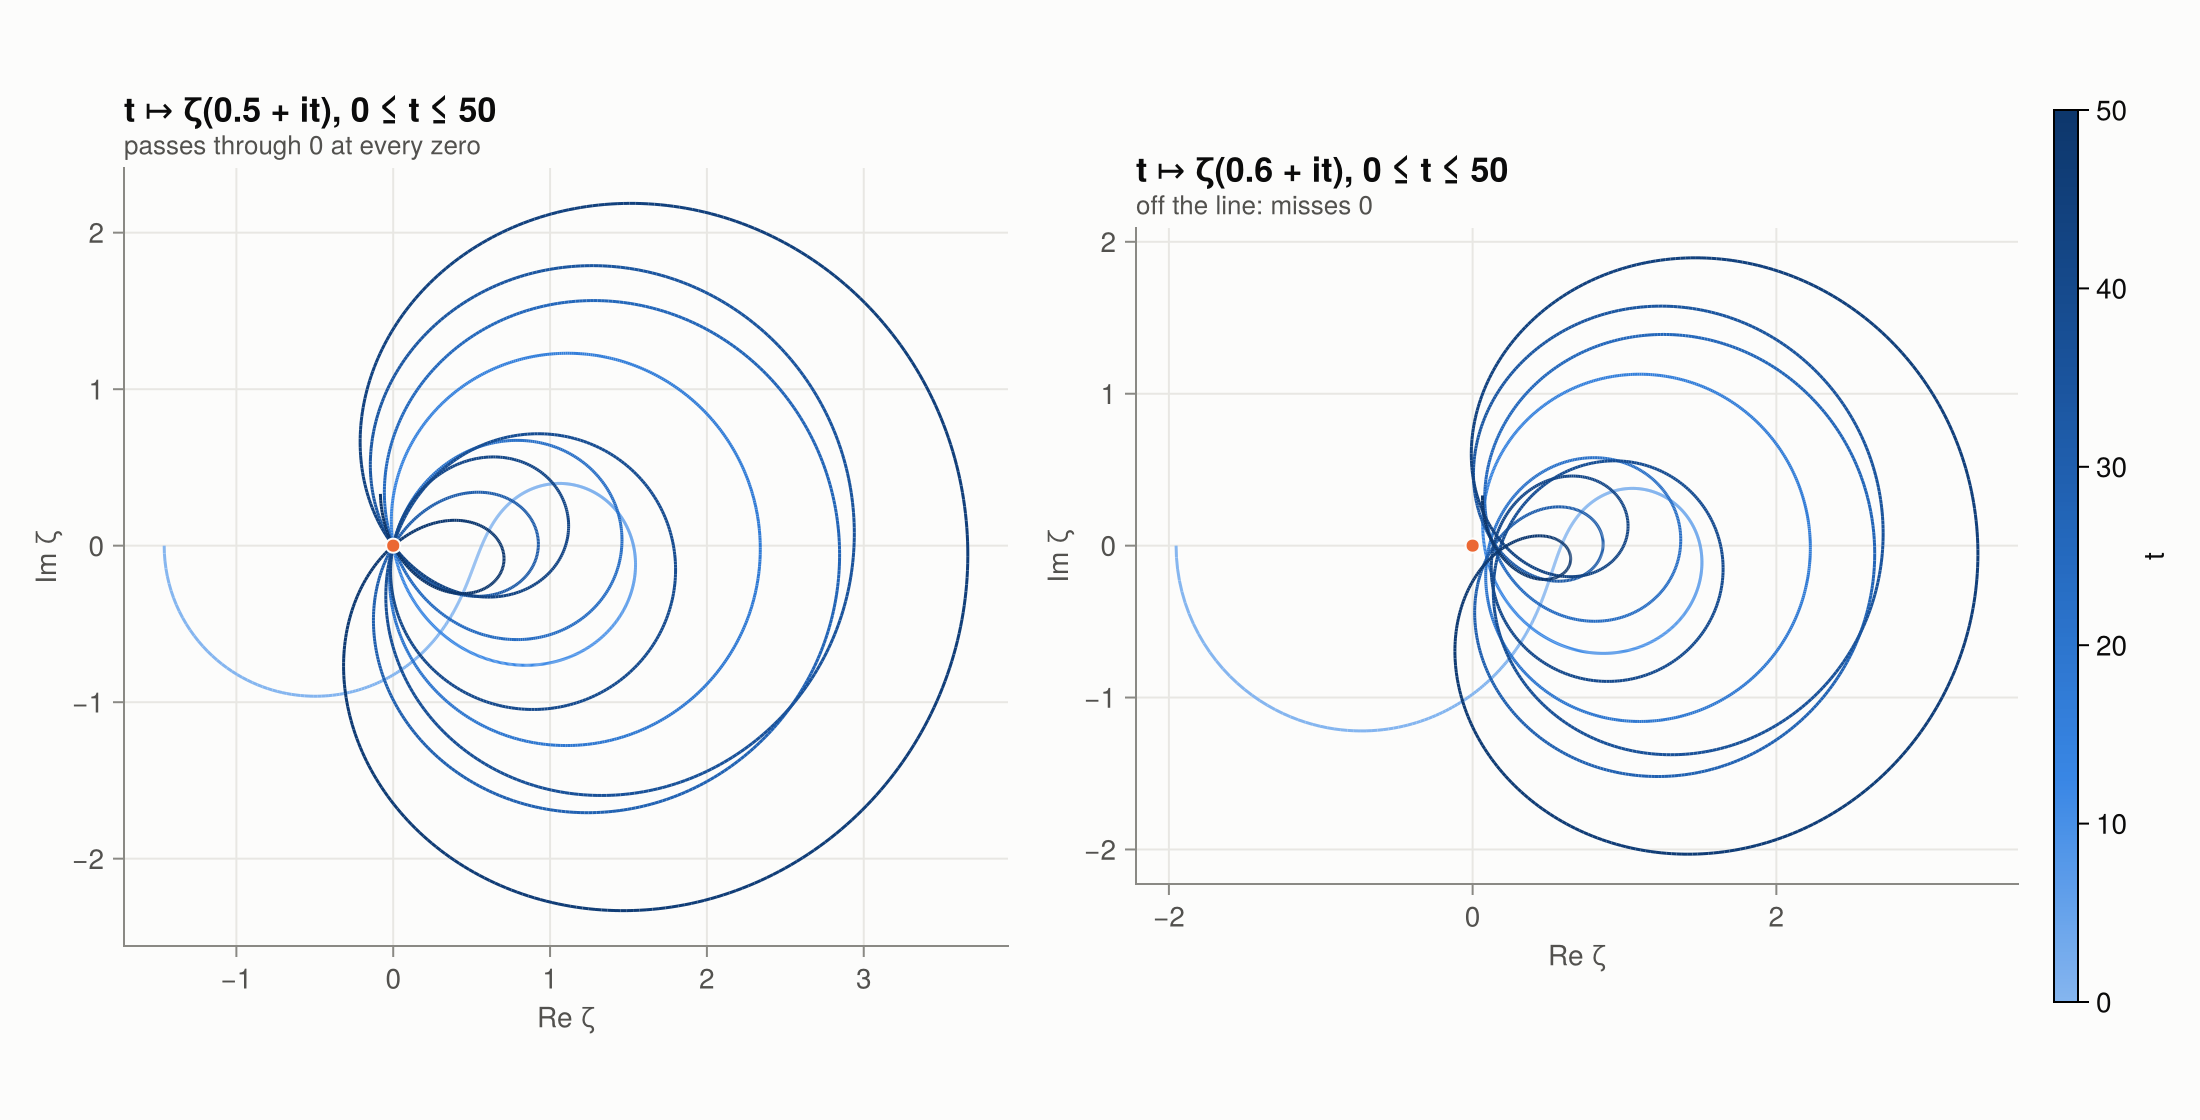
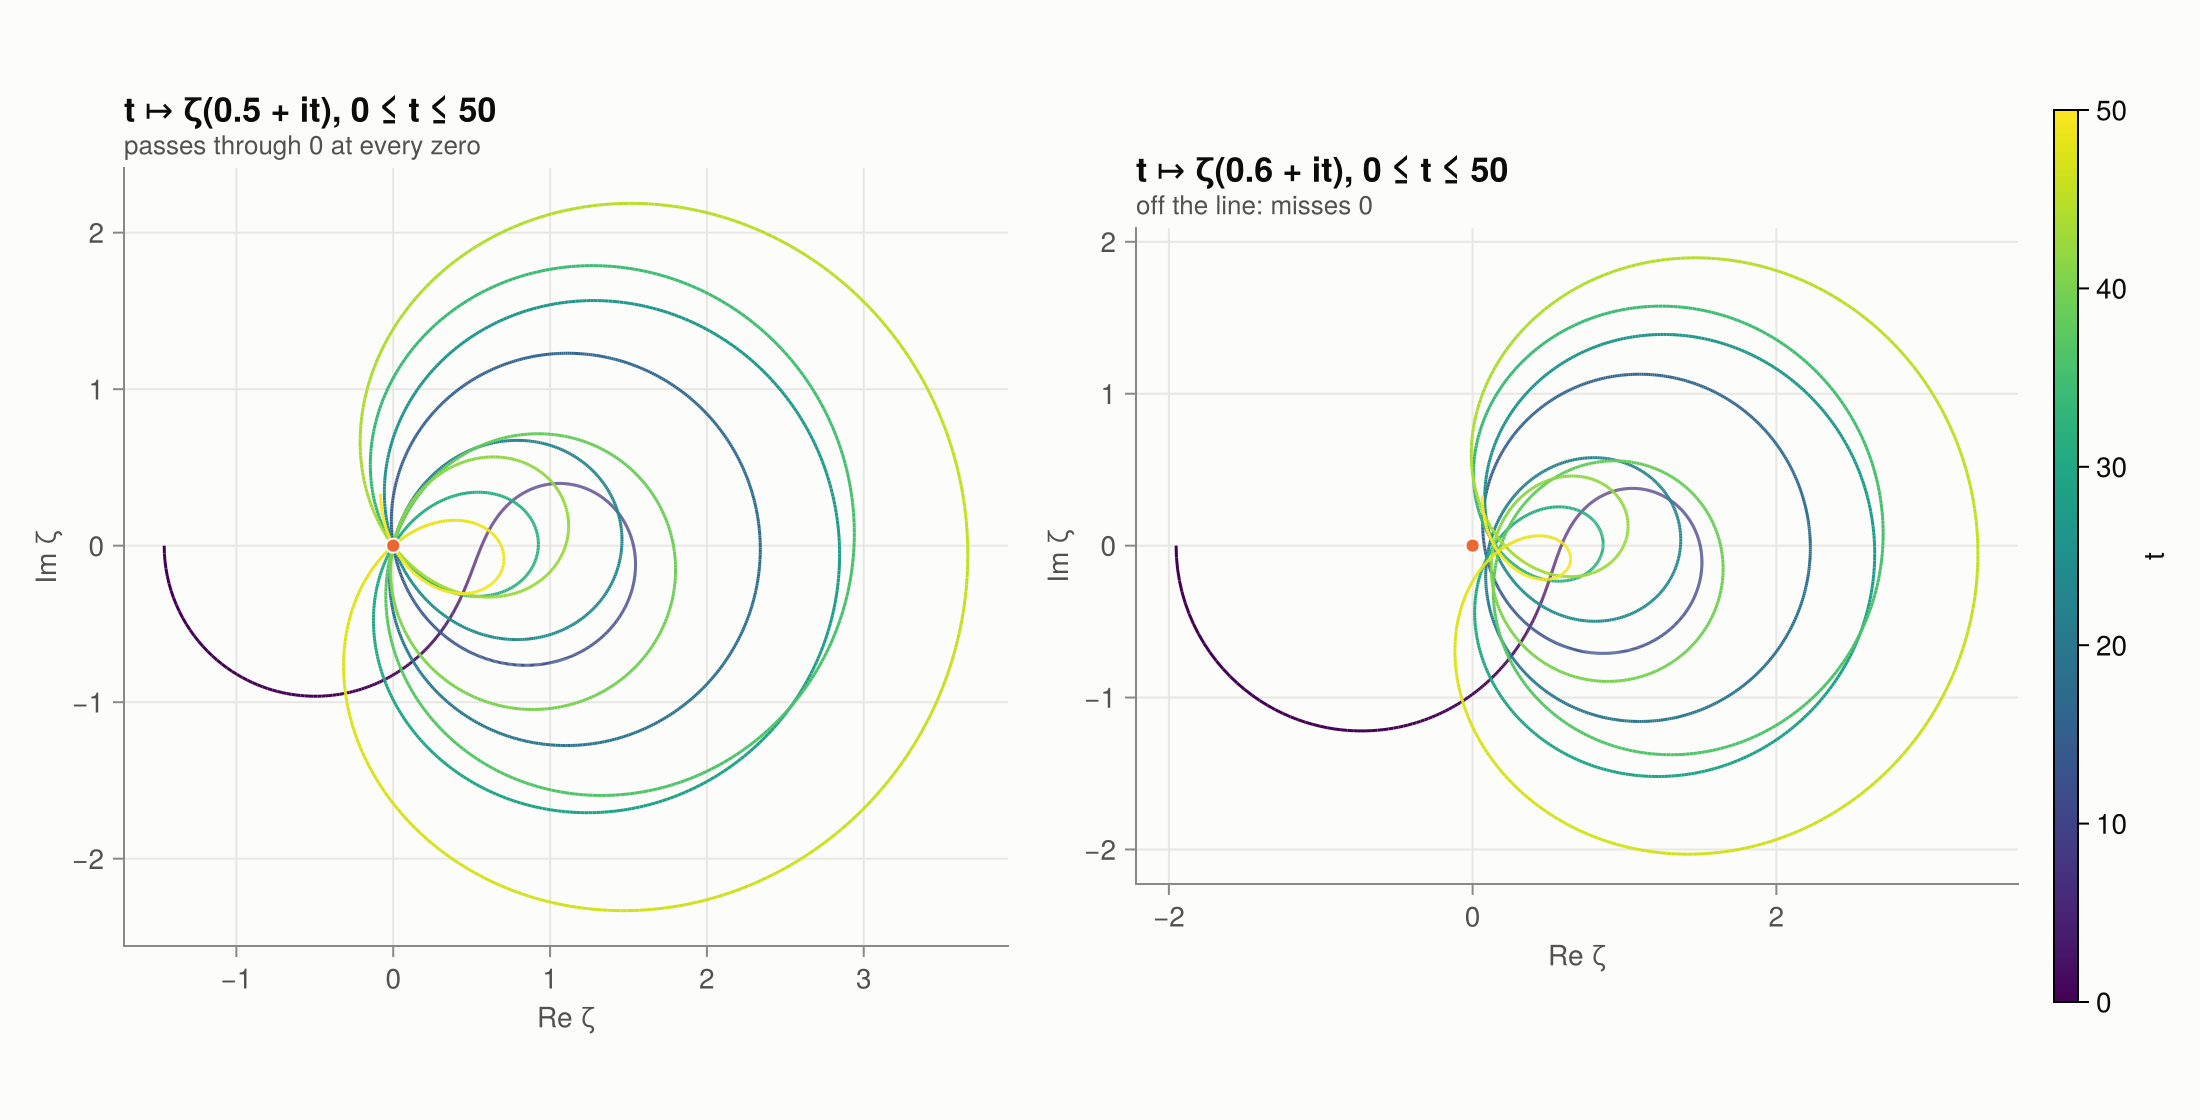
Viridis colormaps, critical-strip illustrations, zero-free regions
- All continuous colour scales (phase portrait, surface, spiral, heat
  flow) now use viridis.
- New plots: plot_critical_strip, plot_strip_schematic, plot_strip_width.
- New: zero_free_boundary (Mossinghoff–Trudgian, Ford/Vinogradov–Korobov)
  and RH_VERIFIED_HEIGHT.
- Docs: "Is the band of fixed width?" section in chapter 5.
- Fix: guard lazily filled coefficient caches with a lock so zeta is
  safe to call from multiple threads.

diff --git a/docs/src/chapters/05_nontrivial_zeros.md b/docs/src/chapters/05_nontrivial_zeros.md
@@ -20,6 +20,17 @@ would therefore come with three partners, ``\bar\rho``, ``1-\rho`` and ``1-\bar\
     ``\beta = \tfrac12`` for every nontrivial zero.
 
 ```@example ch5
+plot_strip_schematic()
+```
+
+Turning the picture on its side, here is the band itself over the landscape ``\log|\zeta(\sigma + it)|``.
+Every zero is a dark well, and every well sits on the line ``\sigma = \tfrac12``:
+
+```@example ch5
+plot_critical_strip()
+```
+
+```@example ch5
 γ = nontrivial_zeros(10)
 ```
 
@@ -130,6 +141,49 @@ gram_point(0), gram_point(126)
 gram_law_violations(300)
 ```
 
+## Is the band of fixed width?
+
+There are two different "bands" here, and they behave differently.
+
+**1. The critical strip ``0 < \operatorname{Re} s < 1`` has fixed width 1.** It is not a statement about
+zeros. It is simply the region that the two elementary facts leave open: the Euler product rules out
+``\operatorname{Re} s > 1``, and the functional equation mirrors that to ``\operatorname{Re} s < 0``. These
+boundaries do not depend on the height ``t``.
+
+**2. The band where zeros could still be hiding is not of fixed width.** What has actually been proved depends
+on ``t``:
+
+* **Up to ``t = 3\cdot10^{12}`` the band has width 0.** Platt and Trudgian (2021) verified, by the
+  sign-change and counting method above ([`check_zeros`](@ref) is a toy version), that every zero there lies
+  exactly on the line ([`RH_VERIFIED_HEIGHT`](@ref)).
+* **Above that height, only zero-free regions narrow the strip.** For example
+  ```math
+  \zeta(\sigma+it) \neq 0 \quad\text{for}\quad \sigma \ge 1 - \frac{1}{5.573412\,\log t}\qquad (t \ge 2)
+  ```
+  (Mossinghoff–Trudgian 2015), and by symmetry also for ``\sigma \le \frac{1}{5.573412\log t}``. The excluded
+  slivers have width about ``1/\log t``, which **shrinks to 0** as ``t \to \infty``. So the band where zeros are
+  not yet excluded *widens* towards the full width 1 the higher you go. The Vinogradov–Korobov region,
+  ``1-\sigma \gg (\log t)^{-2/3}(\log\log t)^{-1/3}``, shrinks more slowly, but it still shrinks.
+  [`zero_free_boundary`](@ref) evaluates both.
+* **Statistically, the zeros crowd toward the line.** Bohr and Landau (1914) showed that for every
+  ``\varepsilon > 0``, all but an infinitesimal proportion of the zeros lie within ``\varepsilon`` of the
+  critical line, and zero-density estimates ([Chapter 8](@ref ch-equivalents)) make this quantitative.
+  So *almost all* zeros lie in an arbitrarily thin band, but no proof rules out a sparse set of exceptions
+  near the edges.
+* **RH says the band is a single line, of width 0, at every height.**
+
+```@example ch5
+zero_free_boundary(1e12), zero_free_boundary(1e100)
+```
+
+```@example ch5
+1 - zero_free_boundary(1e100; method = :vinogradov_korobov)
+```
+
+```@example ch5
+plot_strip_width()
+```
+
 ## Close pairs (Lehmer's phenomenon)
 
 Occasionally two zeros come extremely close together, and ``Z`` barely crosses the axis between them.
@@ -145,4 +199,5 @@ close_pairs(nontrivial_zeros(3000); k = 3)
 [`KNOWN_ZEROS`](@ref), [`riemann_siegel_theta`](@ref), [`hardy_Z`](@ref), [`riemann_siegel_Z`](@ref),
 [`gram_point`](@ref), [`gram_points`](@ref), [`gram_law_violations`](@ref), [`argzeta_S`](@ref),
 [`riemann_von_mangoldt`](@ref), [`zero_count`](@ref), [`zeros_between`](@ref),
-[`nontrivial_zeros`](@ref), [`check_zeros`](@ref), [`close_pairs`](@ref).
+[`nontrivial_zeros`](@ref), [`check_zeros`](@ref), [`close_pairs`](@ref), [`RH_VERIFIED_HEIGHT`](@ref),
+[`zero_free_boundary`](@ref).

diff --git a/README.md b/README.md
@@ -41,7 +41,7 @@ CairoMakie is a weak dependency, and `using CairoMakie` activates `ext/Riemannia
 | **2. ζ on the real line / Euler** | `bernoulli` `zeta_even_exact` `zeta_negint_exact` `dirichlet_partial` `euler_product_partial` |
 | **3. Analytic continuation** | `eta_partial` `zeta_borwein` (η-series) · `zeta_em` (Euler–Maclaurin) · `zeta` (any s, any float type incl. `BigFloat`) · `chi_factor` · `completed_zeta` · `xi` · `Xi` |
 | **4. Trivial zeros** | `trivial_zeros`, exact `ζ(−n)` via Bernoulli numbers, `explain(:trivial_zeros)` |
-| **5. Nontrivial zeros** | `riemann_siegel_theta` `hardy_Z` `riemann_siegel_Z` `gram_point` `gram_law_violations` `argzeta_S` `zero_count` `zeros_between` `nontrivial_zeros` `check_zeros` `close_pairs` |
+| **5. Nontrivial zeros** | `riemann_siegel_theta` `hardy_Z` `riemann_siegel_Z` `gram_point` `gram_law_violations` `argzeta_S` `zero_count` `zeros_between` `nontrivial_zeros` `check_zeros` `close_pairs` `zero_free_boundary` `RH_VERIFIED_HEIGHT` |
 | **6. Explicit formulas** | `psi_explicit` `riemann_J` `riemann_J_explicit` `primepi_explicit` |
 | **7. Random matrices** | `normalized_spacings` `pair_correlation` `wigner_gue` `wigner_goe` `montgomery_pair_correlation` `gue_spacings` |
 | **8. Equivalents & bounds** | `robin_violations` `lagarias_violations` `li_coefficient` `LI_LAMBDA1` `mertens_ratio_max` `zero_density_exponents` |
@@ -54,7 +54,12 @@ CairoMakie is a weak dependency, and `using CairoMakie` activates `ext/Riemannia
 `plot_zeta_real` · `plot_analytic_continuation` · `plot_domain_coloring` · `plot_modulus_surface` ·
 `plot_critical_line` · `plot_zeta_spiral` · `plot_zero_counting` · `plot_xi` · `plot_explicit_formula` ·
 `plot_prime_staircase` · `plot_spacing_distribution` · `plot_pair_correlation` · `plot_robin` ·
-`plot_zero_density` · `plot_heat_flow` · `plot_timeline` · `gallery`
+`plot_zero_density` · `plot_heat_flow` · `plot_timeline` · `plot_critical_strip` · `plot_strip_schematic` ·
+`plot_strip_width` · `gallery`
+
+Continuous colour scales use **viridis**.
+
+![critical strip](figures/22_critical_strip.png)
 
 | | |
 |---|---|

diff --git a/docs/src/gallery.md b/docs/src/gallery.md
@@ -6,7 +6,7 @@ set_theme!(riemann_theme())
 ```
 
 Every figure in Riemannian, with the call that produced it. All plotting functions take keyword
-arguments; see the [API reference](@ref api-plotting).
+arguments; see the [API reference](@ref api-plotting). Continuous colour scales use **viridis**.
 
 ## Primes
 
@@ -48,6 +48,20 @@ plot_domain_coloring(re = (-30, 10), im = (-5, 60), n = 500)
 
 ```@example gal
 plot_modulus_surface(re = (-0.5, 1.5), im = (10, 50))
+```
+
+## The critical strip
+
+```@example gal
+plot_strip_schematic()
+```
+
+```@example gal
+plot_critical_strip(tmax = 150)
+```
+
+```@example gal
+plot_strip_width()
 ```
 
 ## The critical line

diff --git a/docs/src/chapters/04_trivial_zeros.md b/docs/src/chapters/04_trivial_zeros.md
@@ -71,6 +71,10 @@ On ``(0, 1)``, ``\zeta(\sigma) < 0``, because ``\eta(\sigma) > 0`` (an alternati
 shows that the only zeros are at ``-2n``. Every other zero is non-real and lies in the critical strip,
 which is the subject of the next chapter.
 
+```@example ch4
+plot_strip_schematic()
+```
+
 ## Functions in this chapter
 
 [`trivial_zeros`](@ref), [`zeta_negint_exact`](@ref), [`bernoulli`](@ref), [`chi_factor`](@ref), [`zeta`](@ref).

diff --git a/docs/src/api.md b/docs/src/api.md
@@ -83,6 +83,8 @@ zeros_between
 nontrivial_zeros
 check_zeros
 close_pairs
+RH_VERIFIED_HEIGHT
+zero_free_boundary
 ```
 
 ## Explicit formulas
@@ -164,6 +166,9 @@ plot_robin
 plot_zero_density
 plot_heat_flow
 plot_timeline
+plot_critical_strip
+plot_strip_schematic
+plot_strip_width
 gallery
 ```
 
